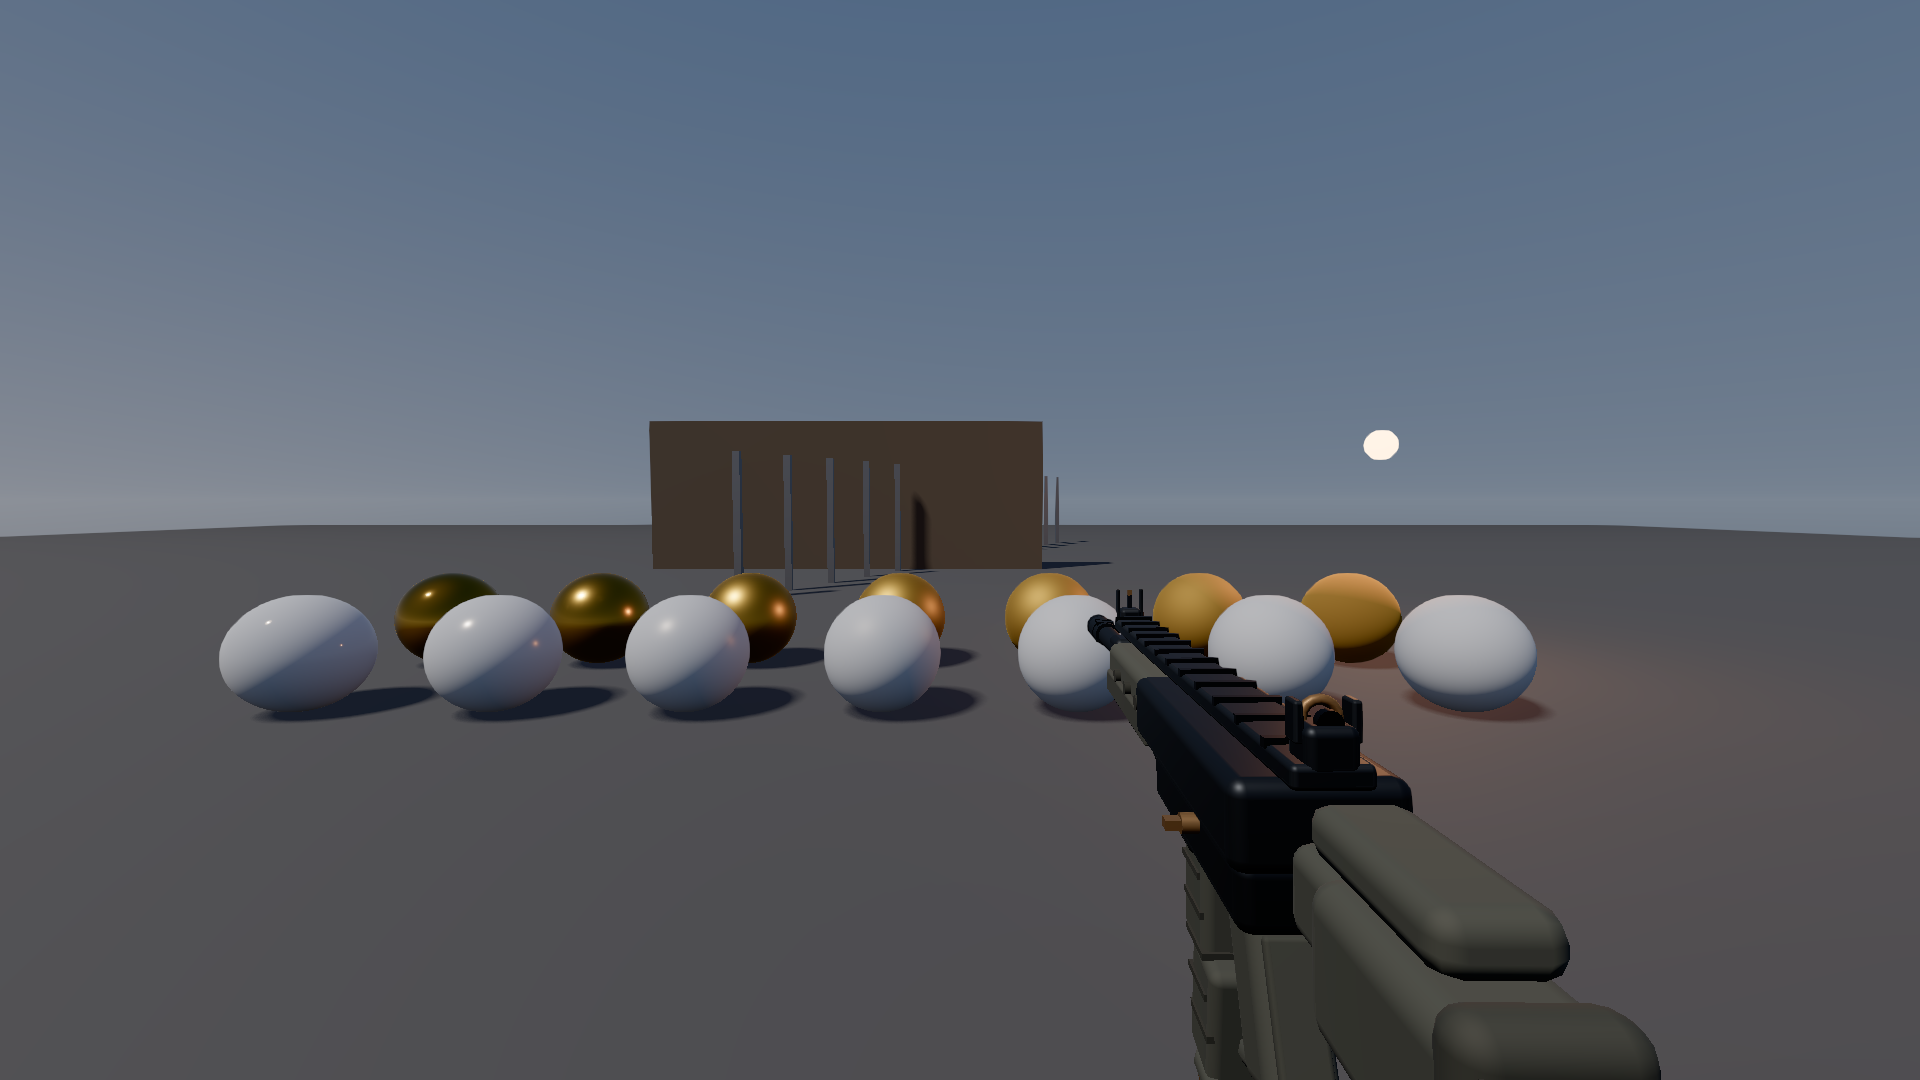
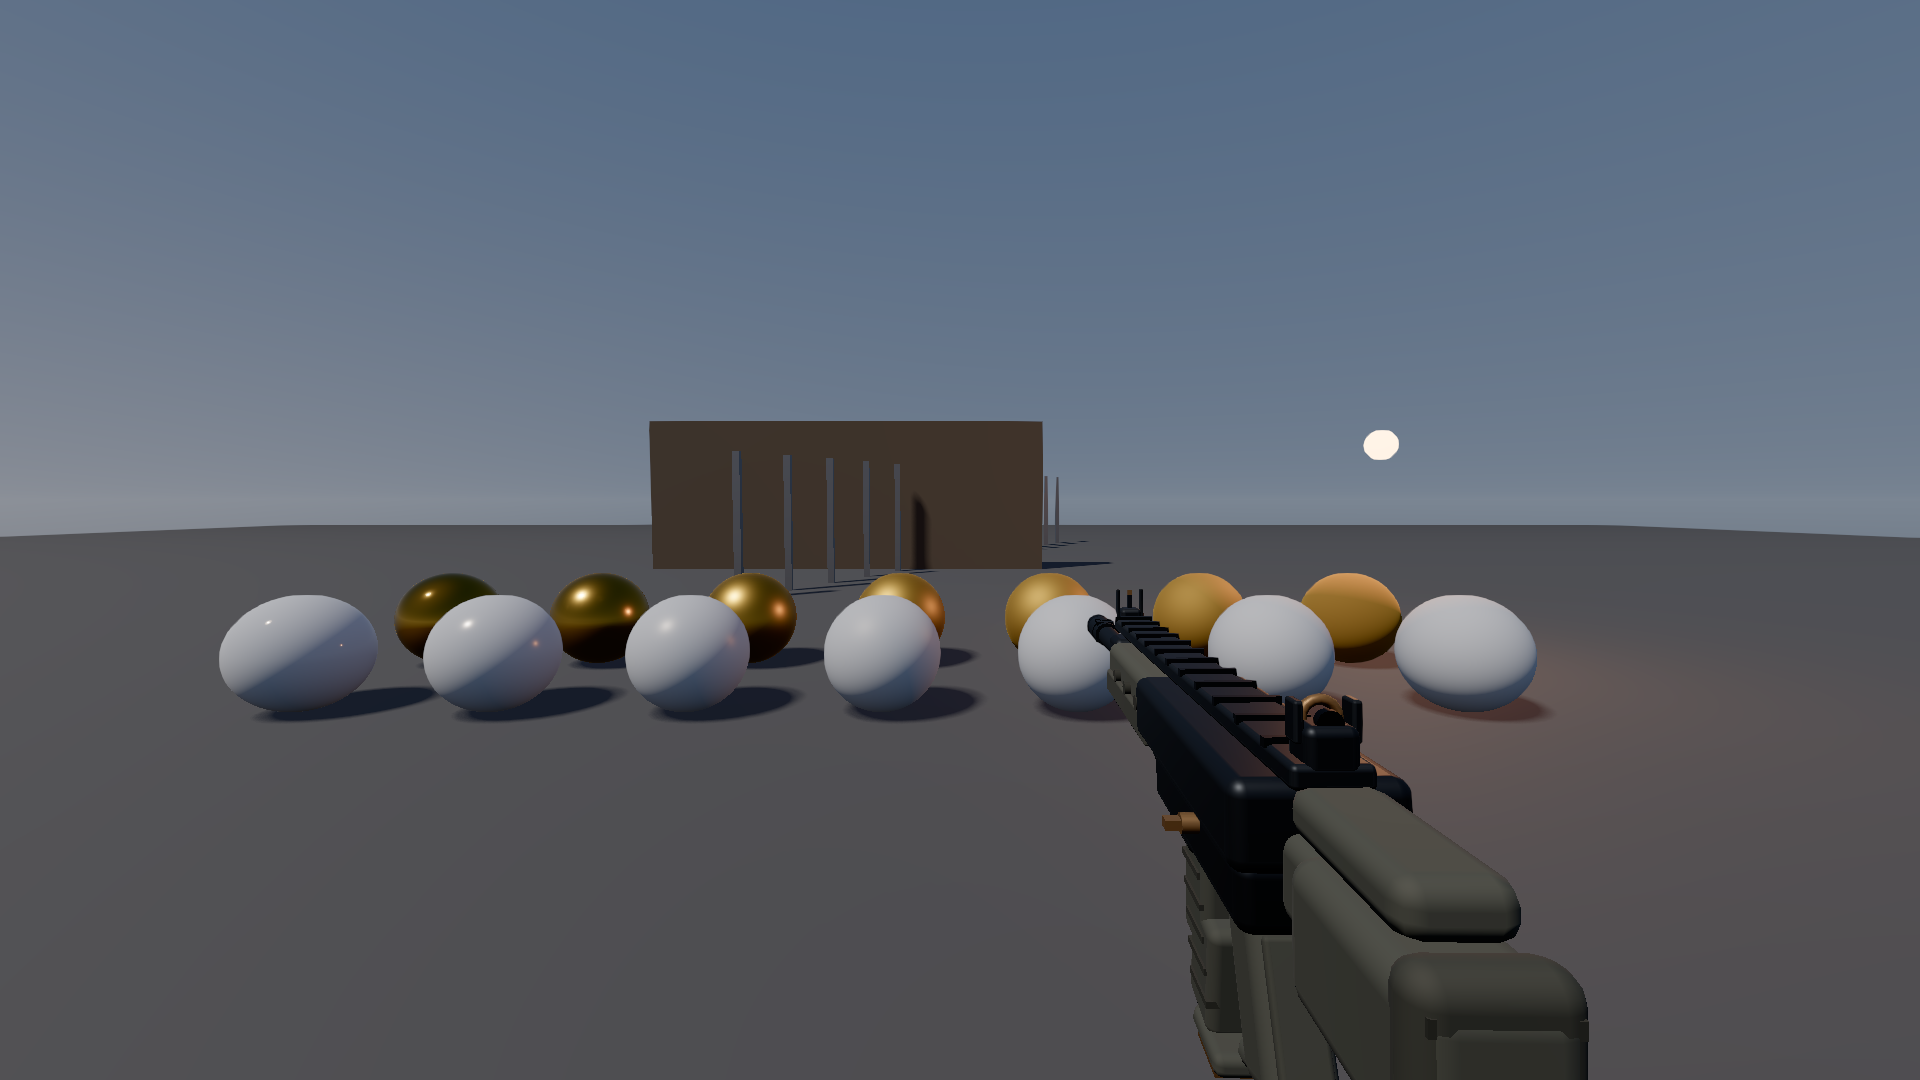
Tighten DUSKLINE A7 viewmodel to authored envelope and 8000-tri ceiling
Refs #59

Bring the finished procedural rifle into the pre-authored quantitative
gates without changing gameplay, draws or anchor semantics:

- buildStock: pull the stock neck/body/cheek/butt-pad/ridges/sling loop
  forward ~30mm so the local z_max drops 0.243 -> 0.21 (gate <= 0.22).
- buildMagazine: raise and slightly shorten the lower magazine body, floor
  plate and baseplate ~35mm so the local y_min rises -0.27 -> -0.23
  (gate >= -0.24); re-space the witness ribs onto the shorter body.
- anchor fixture: lower the triangle ceiling 9000 -> 8000 and add an
  authored-envelope check (x[-0.09,0.10] y[-0.24,0.16] z[-0.92,0.22]).

Union local envelope is now [-0.072,-0.23,-0.912]..[0.075,0.127,0.21],
inside the gate box; 7312 viewmodel triangles across 3 merged
vertex-coloured draws (72 scene-wide). Muzzle anchor stays 6/6 inside
(2mm), ejection 1mm on-port; the local muzzle=(0,0.018,-0.91) and
ejection=(0.073,0.025,-0.13) declarations are byte-identical, so the
authoritative-ray and split-RNG tests are unaffected. Whole-frame textures
stay 16 with zero image textures. Re-captured default/ads/sway/shot-5
(+shot-15/flash) at 1920x1080 through hardware ANGLE Metal; anchor fixture
green; recoil/status/integration/defects/staticworld/shell/stress green;
3x verify-slice 11/11, worst frame-budget p95 8.832ms.

Copilot-Session: eb84cdb7-dc96-4496-bca2-518eac427e95

diff --git a/src/weapons/RifleGeometry.ts b/src/weapons/RifleGeometry.ts
@@ -276,19 +276,19 @@ function buildSights(b: GroupBuilder): void {
 // ── Stock, cheek riser and butt pad ─────────────────────────────────────────
 function buildStock(b: GroupBuilder): void {
   // Stock neck bridging receiver to butt.
-  b.add('polymer', place(rbox(0.05, 0.055, 0.1, 0.012, 2), 0, 0.012, 0.11), TINT.stock);
+  b.add('polymer', place(rbox(0.05, 0.055, 0.1, 0.012, 2), 0, 0.012, 0.095), TINT.stock);
   // Main stock body.
-  b.add('polymer', place(rbox(0.07, 0.085, 0.13, 0.016, 2), 0, 0.0, 0.17), TINT.stock);
+  b.add('polymer', place(rbox(0.07, 0.085, 0.13, 0.016, 2), 0, 0.0, 0.145), TINT.stock);
   // Cheek riser.
-  b.add('polymer', place(rbox(0.055, 0.03, 0.12, 0.012, 1), 0, 0.06, 0.15), TINT.stock);
+  b.add('polymer', place(rbox(0.055, 0.03, 0.12, 0.012, 1), 0, 0.06, 0.125), TINT.stock);
   // Rubber butt pad.
-  b.add('polymer', place(rbox(0.072, 0.11, 0.028, 0.014, 2), 0, -0.005, 0.225), TINT.buttpad, { hemi: 0.16, base: 0.82 });
+  b.add('polymer', place(rbox(0.072, 0.11, 0.028, 0.014, 2), 0, -0.005, 0.195), TINT.buttpad, { hemi: 0.16, base: 0.82 });
   // Pad ridges.
   for (let i = 0; i < 3; i++) {
-    b.add('polymer', place(greeble(0.06, 0.008, 0.006), 0, 0.03 - i * 0.03, 0.24), TINT.magazineRib, { hemi: 0.04, base: 0.5 });
+    b.add('polymer', place(greeble(0.06, 0.008, 0.006), 0, 0.03 - i * 0.03, 0.205), TINT.magazineRib, { hemi: 0.04, base: 0.5 });
   }
   // Sling loop.
-  b.add('accent', place(new THREE.TorusGeometry(0.01, 0.003, 6, 12), 0.03, -0.02, 0.19, 0, Math.PI / 2, 0), TINT.bronzeDark);
+  b.add('accent', place(new THREE.TorusGeometry(0.01, 0.003, 6, 12), 0.03, -0.02, 0.16, 0, Math.PI / 2, 0), TINT.bronzeDark);
 }
 
 // ── Pistol grip with finger grooves ─────────────────────────────────────────
@@ -321,15 +321,15 @@ function buildTrigger(b: GroupBuilder): void {
 function buildMagazine(b: GroupBuilder): void {
   // Two angled body segments suggest a gently curved magazine.
   b.add('polymer', place(rbox(0.05, 0.11, 0.066, 0.01, 2), 0, -0.1, -0.15, 0.06, 0, 0), TINT.magazine);
-  b.add('polymer', place(rbox(0.05, 0.11, 0.062, 0.01, 2), 0.0, -0.2, -0.135, 0.14, 0, 0), TINT.magazine);
+  b.add('polymer', place(rbox(0.05, 0.10, 0.062, 0.01, 2), 0.0, -0.16, -0.135, 0.14, 0, 0), TINT.magazine);
   // Segmentation / witness ribs.
   for (let i = 0; i < 5; i++) {
     const t = i / 4;
-    b.add('polymer', place(greeble(0.054, 0.006, 0.05), 0, -0.08 - t * 0.13, -0.152 + t * 0.02), TINT.magazineRib, { hemi: 0.05, base: 0.5 });
+    b.add('polymer', place(greeble(0.054, 0.006, 0.05), 0, -0.08 - t * 0.10, -0.152 + t * 0.02), TINT.magazineRib, { hemi: 0.05, base: 0.5 });
   }
   // Floor plate.
-  b.add('polymer', place(rbox(0.056, 0.02, 0.07, 0.008, 1), 0, -0.256, -0.117), TINT.grip);
-  b.add('accent', place(greeble(0.05, 0.006, 0.05), 0, -0.267, -0.117), TINT.bronzeDark);
+  b.add('polymer', place(rbox(0.056, 0.02, 0.07, 0.008, 1), 0, -0.216, -0.117), TINT.grip);
+  b.add('accent', place(greeble(0.05, 0.006, 0.05), 0, -0.227, -0.117), TINT.bronzeDark);
 }
 
 function collect(builder: GroupBuilder): RifleGeometrySet {

diff --git a/src/weapons/test/anchor-harness.ts b/src/weapons/test/anchor-harness.ts
@@ -26,8 +26,12 @@ import {
   EJECTION_ANCHOR,
 } from '../RifleGeometry.js';
 
-/** A camera-local weapon: a few thousand triangles is fine, tens of thousands is not. */
-const TRIANGLE_CEILING = 9000;
+/** Authoritative gate: the finished weapon must not exceed the blockout's screen
+ *  footprint, so the union of all authored geometry must fit this local box. */
+const TRIANGLE_CEILING = 8000;
+/** Authored local-space envelope the union of the three groups must stay within. */
+const ENVELOPE_MIN: [number, number, number] = [-0.09, -0.24, -0.92];
+const ENVELOPE_MAX: [number, number, number] = [0.10, 0.16, 0.22];
 /** An anchor is "on" a surface if the nearest triangle is within this distance. */
 const SURFACE_TOLERANCE_M = 0.003;
 /** The six axis probe directions used for inside/outside ray parity. */
@@ -137,6 +141,31 @@ function run(): AnchorResult {
       note: 'one merged BufferGeometry per group => three draw calls',
     },
   });
+
+  // 1b. Authored envelope: the union of all three groups must stay inside the
+  // gate box, so the finished art never obstructs more screen than the blockout.
+  const union = new THREE.Box3();
+  for (const g of [rifle.metal, rifle.polymer, rifle.accent]) {
+    g.computeBoundingBox();
+    union.union(g.boundingBox!);
+  }
+  const min = union.min.toArray();
+  const max = union.max.toArray();
+  const withinEnvelope =
+    min[0] >= ENVELOPE_MIN[0] && min[1] >= ENVELOPE_MIN[1] && min[2] >= ENVELOPE_MIN[2] &&
+    max[0] <= ENVELOPE_MAX[0] && max[1] <= ENVELOPE_MAX[1] && max[2] <= ENVELOPE_MAX[2];
+  checks.push({
+    name: 'authored-envelope',
+    pass: withinEnvelope,
+    detail: {
+      unionMin: min.map((v) => Number(v.toFixed(4))),
+      unionMax: max.map((v) => Number(v.toFixed(4))),
+      gateMin: ENVELOPE_MIN,
+      gateMax: ENVELOPE_MAX,
+      note: 'local-space; keeps screen obstruction within the blockout footprint',
+    },
+  });
+
   rifle.metal.dispose();
   rifle.polymer.dispose();
   rifle.accent.dispose();
